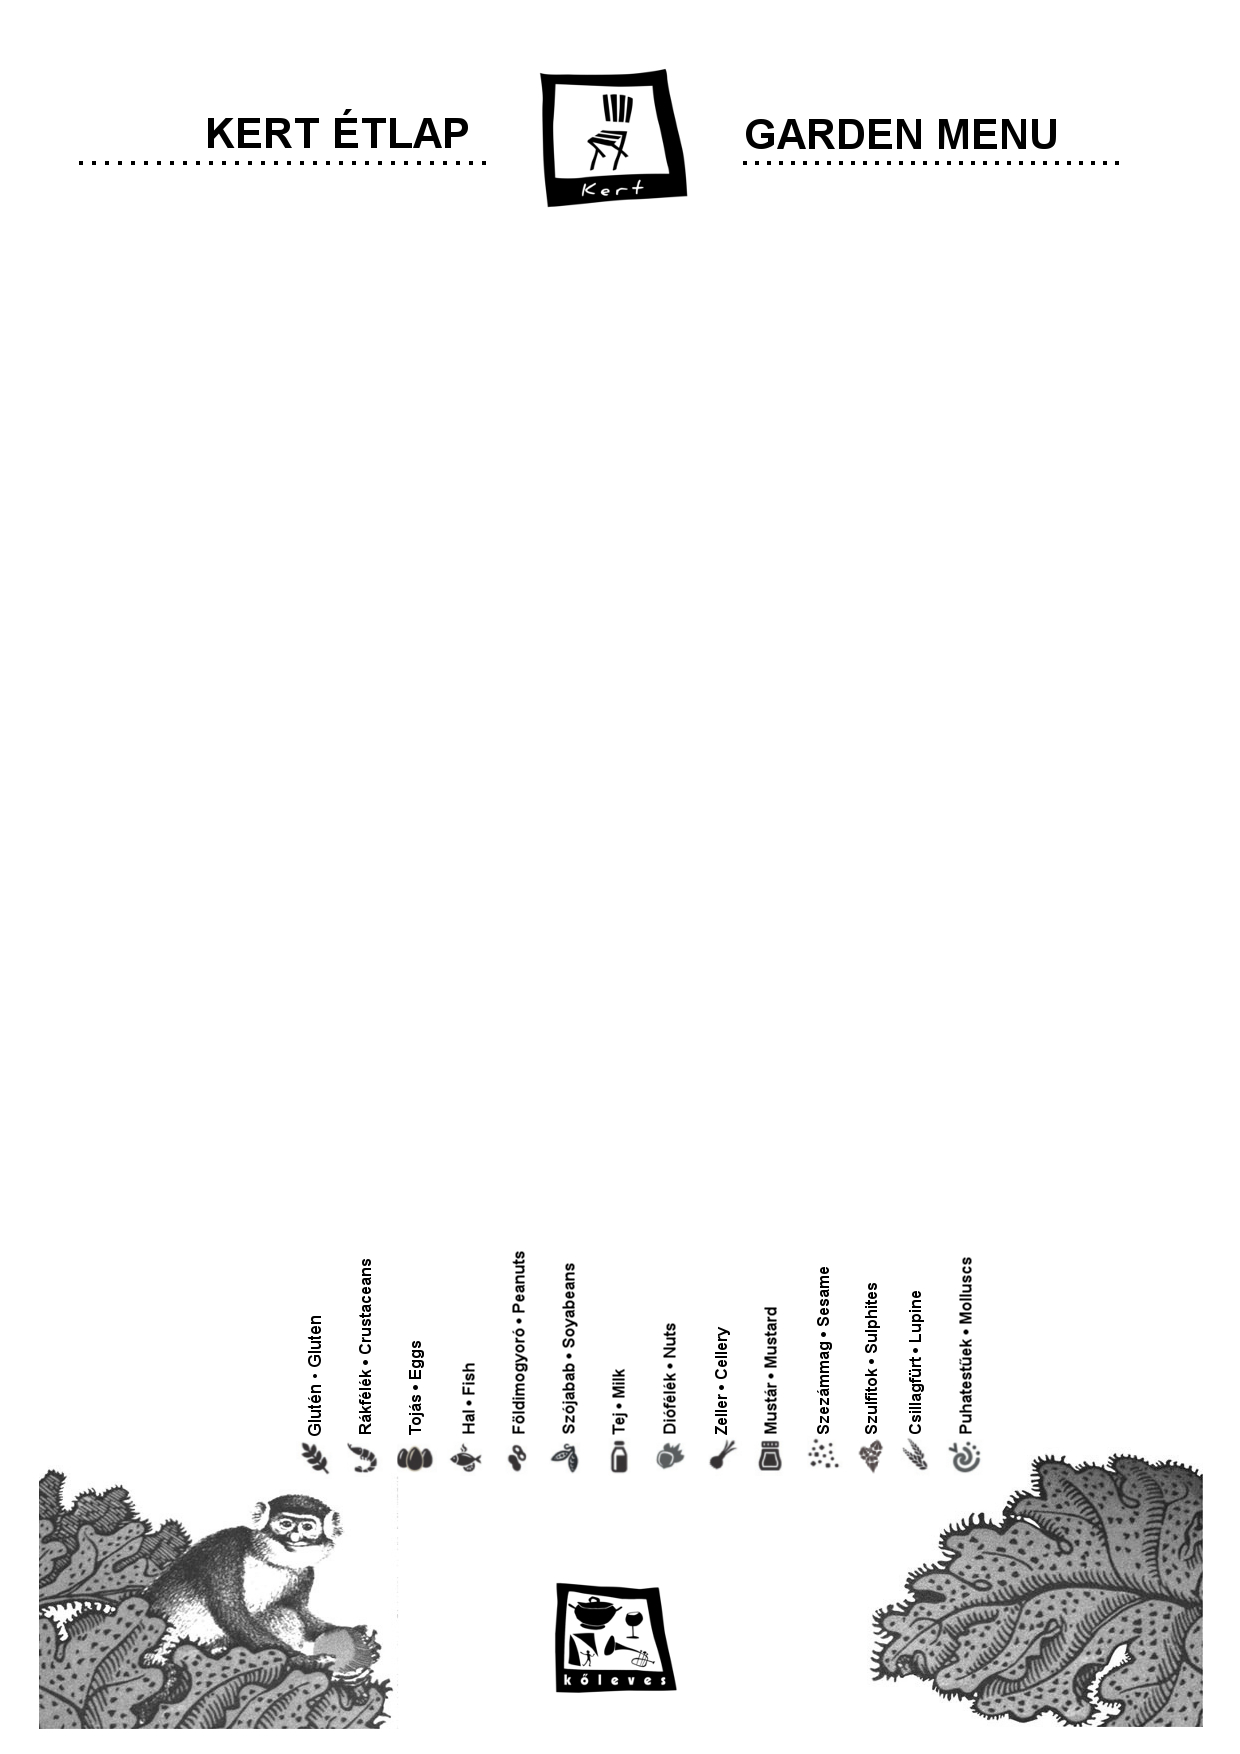
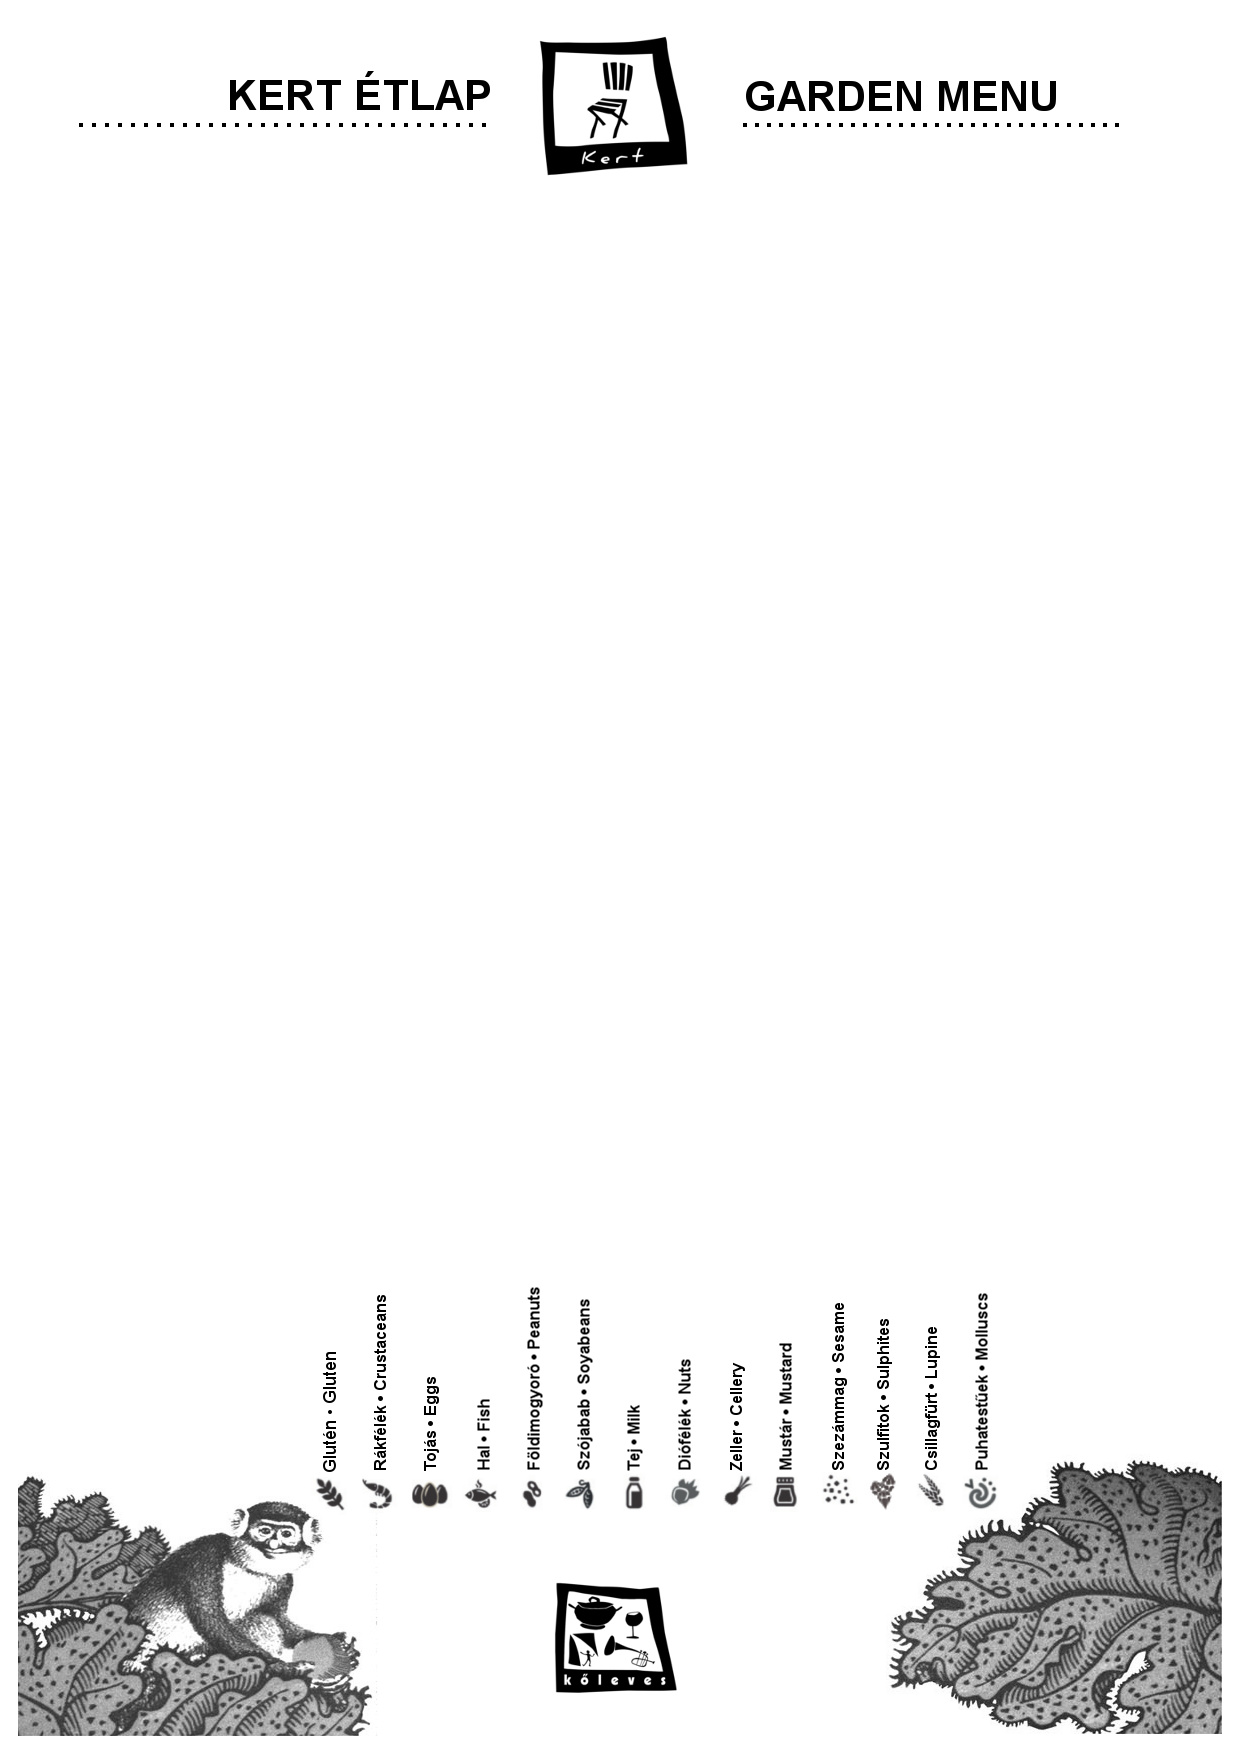
Kert étlap format update

diff --git a/core/controller/controllerKert.php b/core/controller/controllerKert.php
@@ -162,7 +162,7 @@ class Kert extends BaseObject{
     	 
     	$pdf->SetAutoPageBreak(TRUE, PDF_MARGIN_BOTTOM);
     	$pdf->setImageScale(PDF_IMAGE_SCALE_RATIO);
-    	$pdf->SetFont('freesans', '', 10);
+    	$pdf->SetFont('freesans', '', 9);
     	 
     	 
     	$bMargin = $pdf->getBreakMargin();
@@ -179,13 +179,13 @@ class Kert extends BaseObject{
     	$pdf->setPageMark();
     	 
     	 
-    	$html = '<br/><br/><br/><br/><br/><br/><br/><br/>
+    	$html = '<br/><br/><br/><br/><br/>
    
 <div style="text-align:center;">
     			<table>';
     	 
     	    	  
-    	$textCutOffIndex = 30;
+    	$textCutOffIndex = 32;
     	foreach ($etelek AS $etelAdat){
     		$icons = $this->fetchAllergenIcon($etelAdat['TAGEK']);
     		$englishTextFirst = substr($etelAdat['text_en'], 0, $textCutOffIndex);
